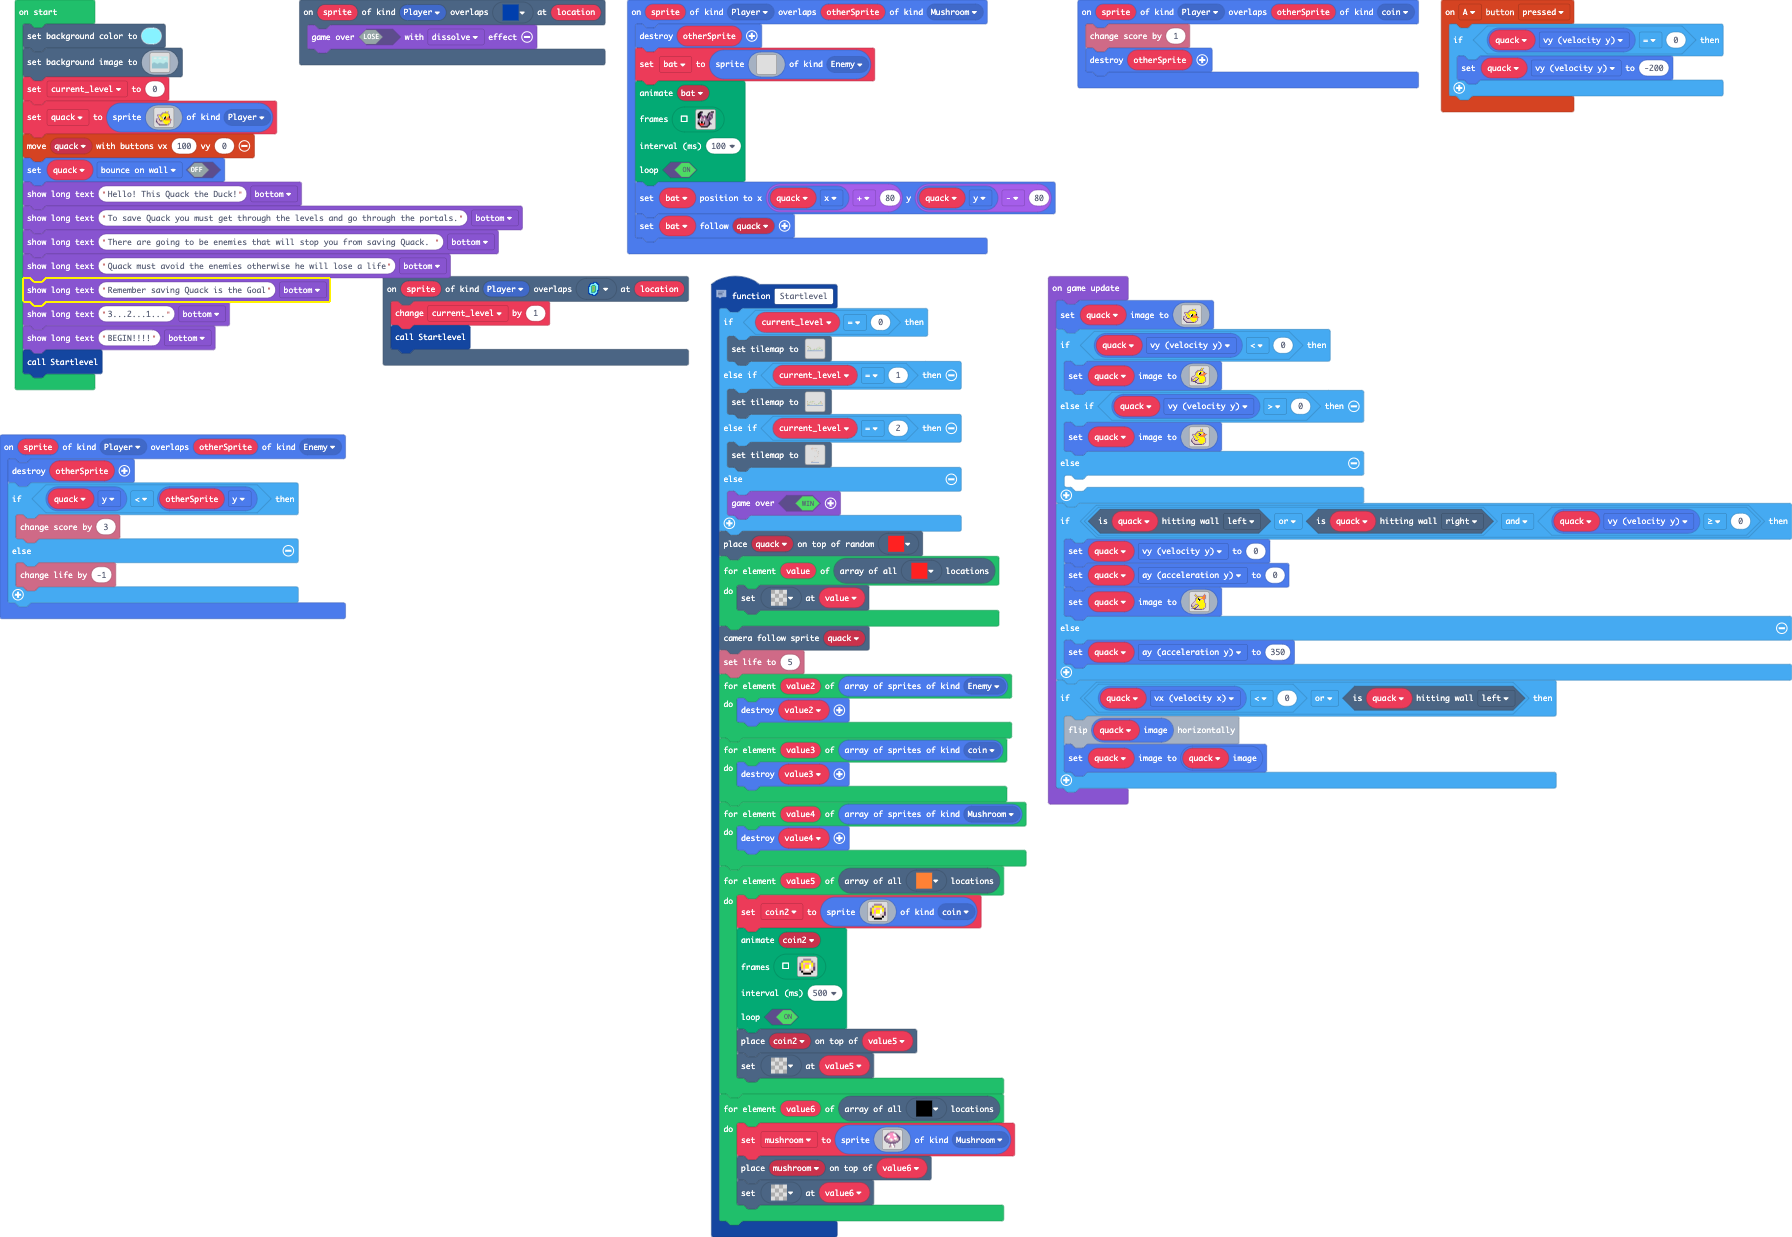
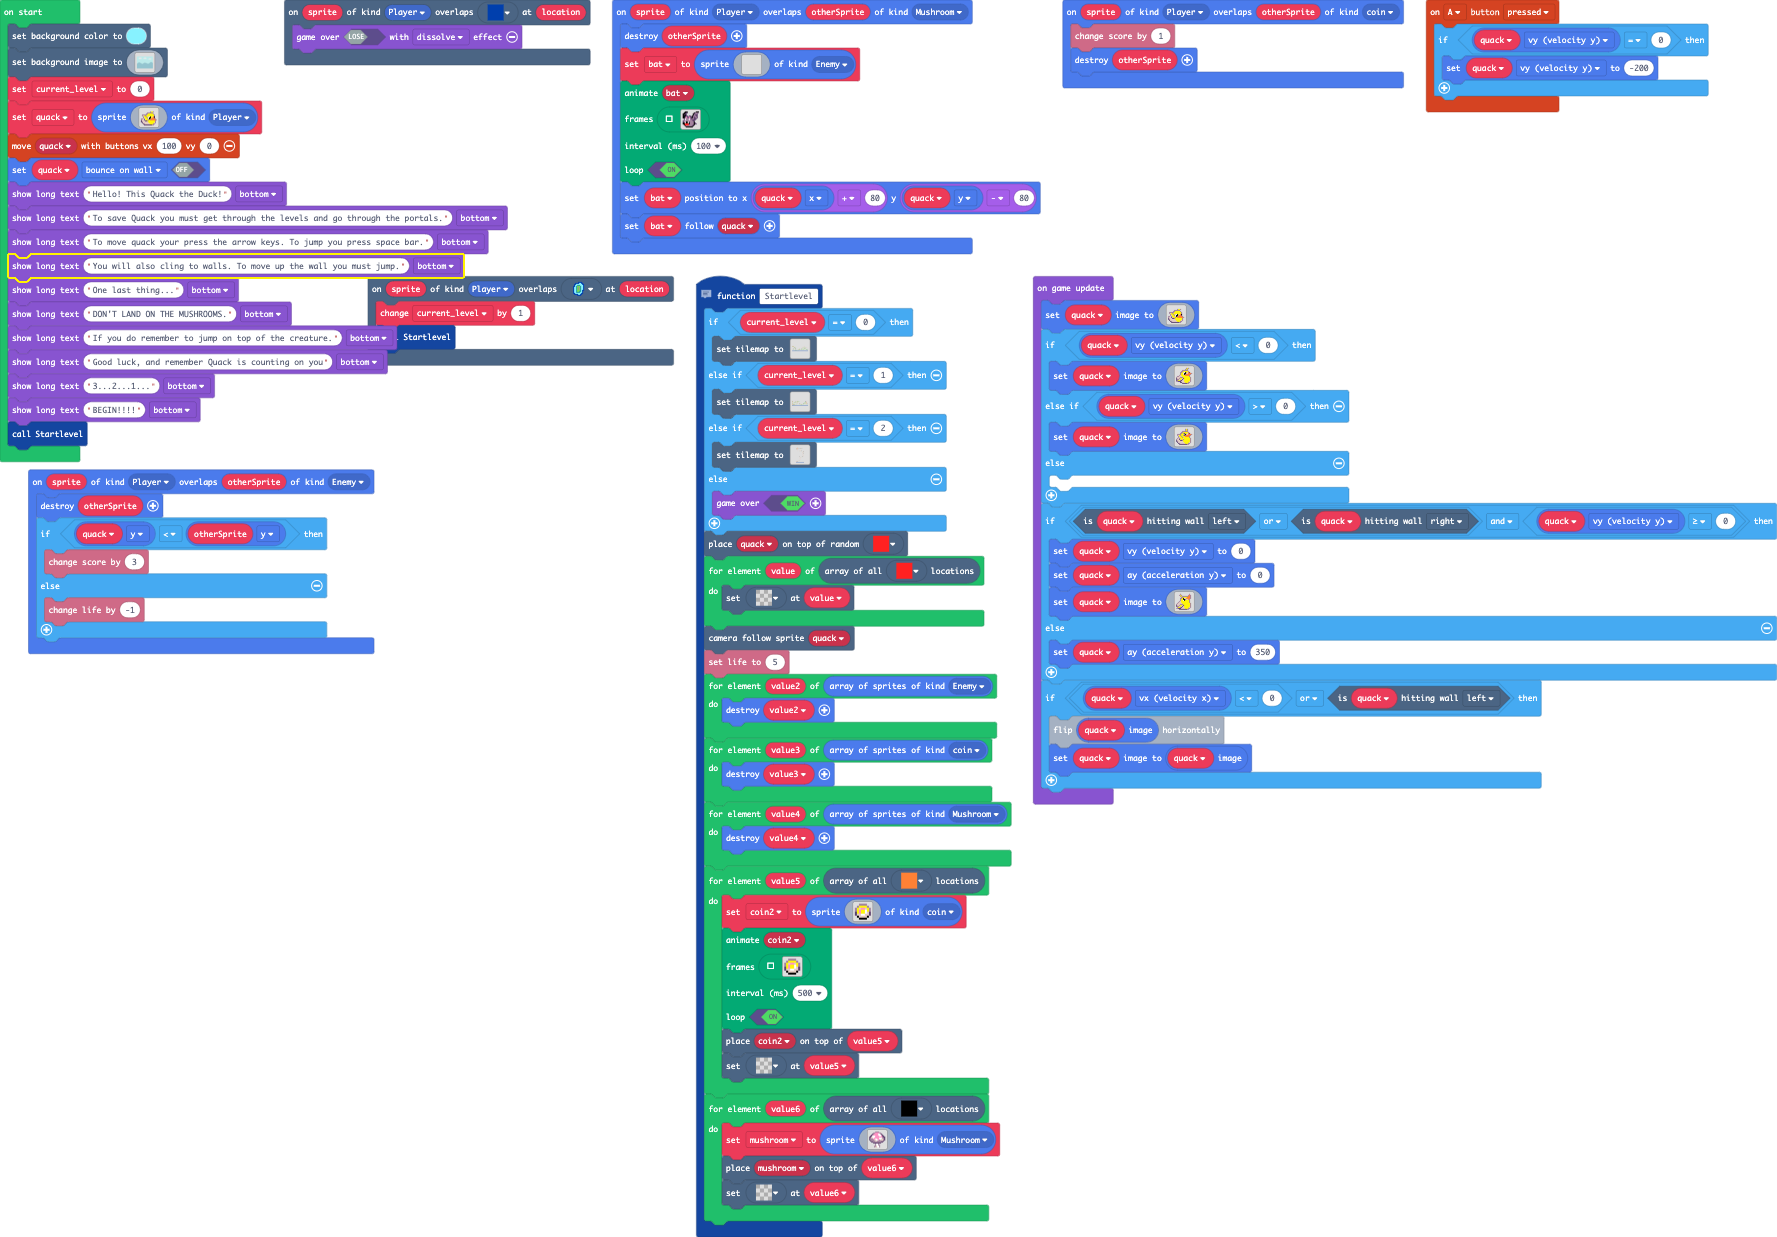
Update main.blocks, main.ts

Changed region(s): [[0.0, 0.0, 0.8357, 1.0], [0.5881, 0.0, 0.9285, 0.0922], [0.8666, 0.3994, 0.9285, 0.4301]]

diff --git a/main.ts b/main.ts
@@ -663,9 +663,12 @@ controller.moveSprite(quack, 100, 0)
 quack.setFlag(SpriteFlag.BounceOnWall, false)
 game.showLongText("Hello! This Quack the Duck!", DialogLayout.Bottom)
 game.showLongText("To save Quack you must get through the levels and go through the portals.", DialogLayout.Bottom)
-game.showLongText("There are going to be enemies that will stop you from saving Quack. ", DialogLayout.Bottom)
-game.showLongText("Quack must avoid the enemies otherwise he will lose a life", DialogLayout.Bottom)
-game.showLongText("Remember saving Quack is the Goal", DialogLayout.Bottom)
+game.showLongText("To move quack your press the arrow keys. To jump you press space bar.", DialogLayout.Bottom)
+game.showLongText("You will also cling to walls. To move up the wall you must jump.", DialogLayout.Bottom)
+game.showLongText("One last thing...", DialogLayout.Bottom)
+game.showLongText("DON'T LAND ON THE MUSHROOMS.", DialogLayout.Bottom)
+game.showLongText("If you do remember to jump on top of the creature.", DialogLayout.Bottom)
+game.showLongText("Good luck, and remember Quack is counting on you", DialogLayout.Bottom)
 game.showLongText("3...2...1...", DialogLayout.Bottom)
 game.showLongText("BEGIN!!!!", DialogLayout.Bottom)
 Startlevel()
